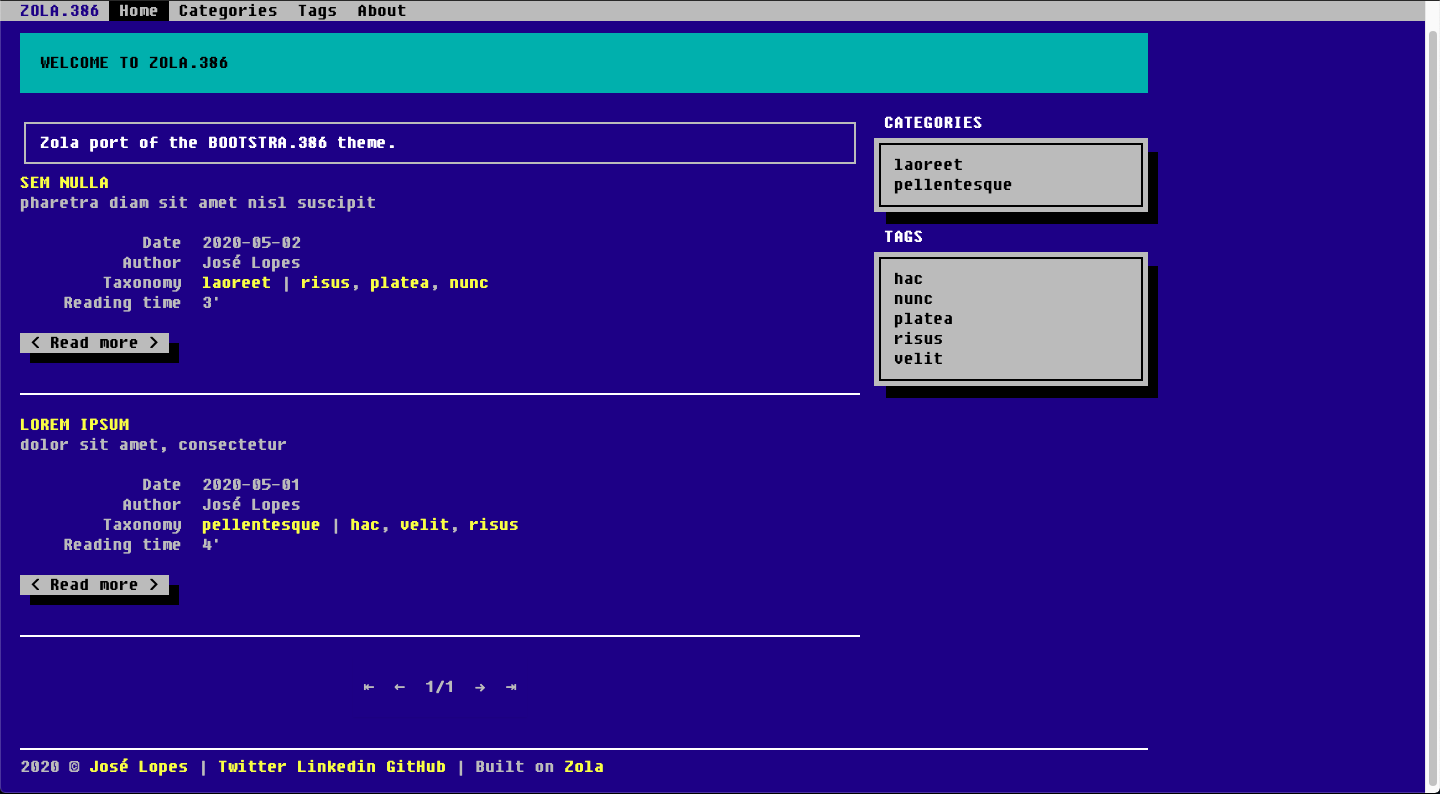
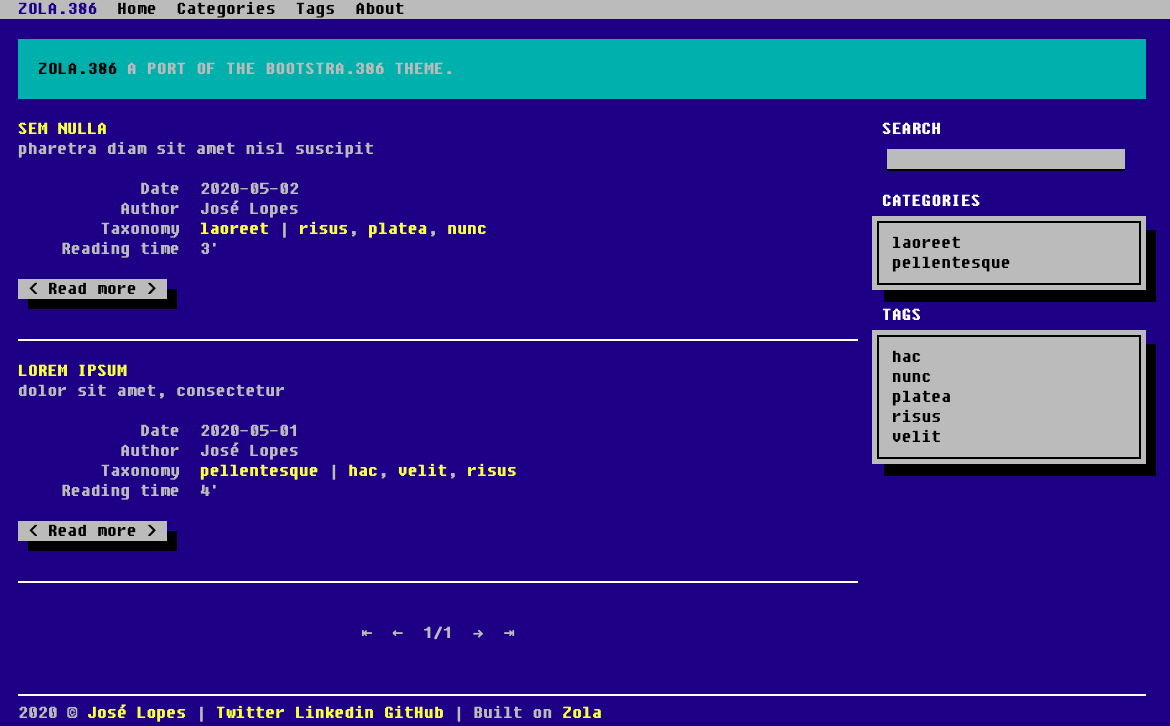
implemented search

Changed region(s): [[0.0, 0.0, 1.0, 1.0], [0.0, 0.9394, 0.8, 1.0], [0.2769, 0.8485, 0.4, 0.8788]]

diff --git a/static/js/search.js b/static/js/search.js
@@ -1,0 +1,182 @@
+// https://raw.githubusercontent.com/getzola/zola/master/docs/static/search.js
+
+function debounce(func, wait) {
+    var timeout;
+  
+    return function () {
+      var context = this;
+      var args = arguments;
+      clearTimeout(timeout);
+  
+      timeout = setTimeout(function () {
+        timeout = null;
+        func.apply(context, args);
+      }, wait);
+    };
+  }
+  
+  // Taken from mdbook
+  // The strategy is as follows:
+  // First, assign a value to each word in the document:
+  //  Words that correspond to search terms (stemmer aware): 40
+  //  Normal words: 2
+  //  First word in a sentence: 8
+  // Then use a sliding window with a constant number of words and count the
+  // sum of the values of the words within the window. Then use the window that got the
+  // maximum sum. If there are multiple maximas, then get the last one.
+  // Enclose the terms in <b>.
+  function makeTeaser(body, terms) {
+    var TERM_WEIGHT = 40;
+    var NORMAL_WORD_WEIGHT = 2;
+    var FIRST_WORD_WEIGHT = 8;
+    var TEASER_MAX_WORDS = 30;
+  
+    var stemmedTerms = terms.map(function (w) {
+      return elasticlunr.stemmer(w.toLowerCase());
+    });
+    var termFound = false;
+    var index = 0;
+    var weighted = []; // contains elements of ["word", weight, index_in_document]
+  
+    // split in sentences, then words
+    var sentences = body.toLowerCase().split(". ");
+  
+    for (var i in sentences) {
+      var words = sentences[i].split(" ");
+      var value = FIRST_WORD_WEIGHT;
+  
+      for (var j in words) {
+        var word = words[j];
+  
+        if (word.length > 0) {
+          for (var k in stemmedTerms) {
+            if (elasticlunr.stemmer(word).startsWith(stemmedTerms[k])) {
+              value = TERM_WEIGHT;
+              termFound = true;
+            }
+          }
+          weighted.push([word, value, index]);
+          value = NORMAL_WORD_WEIGHT;
+        }
+  
+        index += word.length;
+        index += 1;  // ' ' or '.' if last word in sentence
+      }
+  
+      index += 1;  // because we split at a two-char boundary '. '
+    }
+  
+    if (weighted.length === 0) {
+      return body;
+    }
+  
+    var windowWeights = [];
+    var windowSize = Math.min(weighted.length, TEASER_MAX_WORDS);
+    // We add a window with all the weights first
+    var curSum = 0;
+    for (var i = 0; i < windowSize; i++) {
+      curSum += weighted[i][1];
+    }
+    windowWeights.push(curSum);
+  
+    for (var i = 0; i < weighted.length - windowSize; i++) {
+      curSum -= weighted[i][1];
+      curSum += weighted[i + windowSize][1];
+      windowWeights.push(curSum);
+    }
+  
+    // If we didn't find the term, just pick the first window
+    var maxSumIndex = 0;
+    if (termFound) {
+      var maxFound = 0;
+      // backwards
+      for (var i = windowWeights.length - 1; i >= 0; i--) {
+        if (windowWeights[i] > maxFound) {
+          maxFound = windowWeights[i];
+          maxSumIndex = i;
+        }
+      }
+    }
+  
+    var teaser = [];
+    var startIndex = weighted[maxSumIndex][2];
+    for (var i = maxSumIndex; i < maxSumIndex + windowSize; i++) {
+      var word = weighted[i];
+      if (startIndex < word[2]) {
+        // missing text from index to start of `word`
+        teaser.push(body.substring(startIndex, word[2]));
+        startIndex = word[2];
+      }
+  
+      // add <em/> around search terms
+      if (word[1] === TERM_WEIGHT) {
+        teaser.push("<b>");
+      }
+      startIndex = word[2] + word[0].length;
+      teaser.push(body.substring(word[2], startIndex));
+  
+      if (word[1] === TERM_WEIGHT) {
+        teaser.push("</b>");
+      }
+    }
+    teaser.push("…");
+    return teaser.join("");
+  }
+  
+  function formatSearchResultItem(item, terms) {
+    return '<div class="search-results__item">'
+    + `<a href="${item.ref}">${item.doc.title}</a>`
+    + `<div>${makeTeaser(item.doc.body, terms)}</div>`
+    + '</div>';
+  }
+  
+  function initSearch() {
+    var $searchInput = document.getElementById("search");
+    var $searchResults = document.querySelector(".search-results");
+    var $searchResultsItems = document.querySelector(".search-results__items");
+    var MAX_ITEMS = 10;
+  
+    var options = {
+      bool: "AND",
+      fields: {
+        title: {boost: 2},
+        body: {boost: 1},
+      }
+    };
+    var currentTerm = "";
+    var index = elasticlunr.Index.load(window.searchIndex);
+  
+    $searchInput.addEventListener("keyup", debounce(function() {
+      var term = $searchInput.value.trim();
+      if (term === currentTerm || !index) {
+        return;
+      }
+      $searchResults.style.display = term === "" ? "none" : "block";
+      $searchResultsItems.innerHTML = "";
+      if (term === "") {
+        return;
+      }
+  
+      var results = index.search(term, options);
+      if (results.length === 0) {
+        $searchResults.style.display = "none";
+        return;
+      }
+  
+      currentTerm = term;
+      for (var i = 0; i < Math.min(results.length, MAX_ITEMS); i++) {
+        var item = document.createElement("li");
+        item.innerHTML = formatSearchResultItem(results[i], term.split(" "));
+        $searchResultsItems.appendChild(item);
+      }
+    }, 150));
+  }
+  
+  
+  if (document.readyState === "complete" ||
+      (document.readyState !== "loading" && !document.documentElement.doScroll)
+  ) {
+    initSearch();
+  } else {
+    document.addEventListener("DOMContentLoaded", initSearch);
+  }

diff --git a/templates/index.html b/templates/index.html
@@ -109,6 +109,14 @@
 
       <div class="span3 bs-docs-sidebar">
       {% block sidebar %}
+        <h1>Search</h1>
+        <form class="form-search">
+          <input id="search" type="text" class="input-large search-query">
+        </form>
+        <div class="search-results">
+          <div class="search-results__items"></div>
+        </div>
+        <p></p>
         <h1>Categories</h1>
         <ul class="nav nav-list bs-docs-sidenav">
           {% set categories = get_taxonomy(kind="categories") %}
@@ -169,5 +177,8 @@
   <script src="{{ get_url(path="js/bootstrap-typeahead.js", trailing_slash=false) | safe }}"></script>
   <script src="{{ get_url(path="js/bootstrap-affix.js", trailing_slash=false) | safe }}"></script>
   <script src="{{ get_url(path="js/zola.386.js", trailing_slash=false) | safe }}"></script>
+  <script src="{{ get_url(path="js/search.js", trailing_slash=false) | safe }}"></script>
+  <script src="{{ get_url(path="elasticlunr.min.js", trailing_slash=false) | safe }}"></script>
+  <script src="{{ get_url(path="search_index.en.js", trailing_slash=false) | safe }}"></script>
 </body>
 </html>

diff --git a/README.md b/README.md
@@ -66,10 +66,11 @@ As said, Disqus is supportted, but besides setting the username in `config.toml`
 ### Animations
 All JavaScript animations can be set at `static/js/zola386.js`.  Basically you can disable all animations, use one or two scans, and change the scan speed.  Personally, I prefer only one scan with a speed factor of 5.
 
-
 ### Language
-
 Under the `label_` variables, you can set names to better localize your site.  Note that you can change the language of a single page, by using `page.extra.lang`, which causes `<html lang="">` to change only on that page.  A theme to provide information for its owner and SEO-friendly.
+
+### Search
+Search was implemented according to the [official documentation](https://www.getzola.org/documentation/content/search/).  It uses JavaScript to search on an indexed version of the site based on `search_index.LANG.js`, `elasticlunr.min.js`, and `search.js` --the first two are generated after each build.  If you're running your site in other default language other than English, you **must** change the `search_index.LANG.js` line in `index.html`, setting up `LANG` accordingly.
 
 ### Other files
 The `content\_index.md` file must be properly configured to provide better experience.  Check out this file for more information.

diff --git a/content/unlisted.md b/content/unlisted.md
@@ -1,0 +1,5 @@
++++
+title = "Unlisted page"
++++
+
+Empty.
